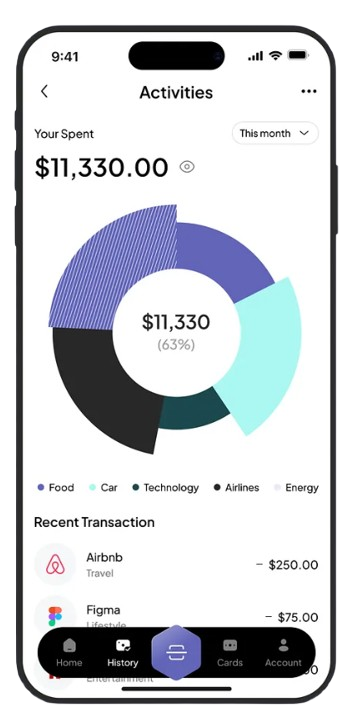
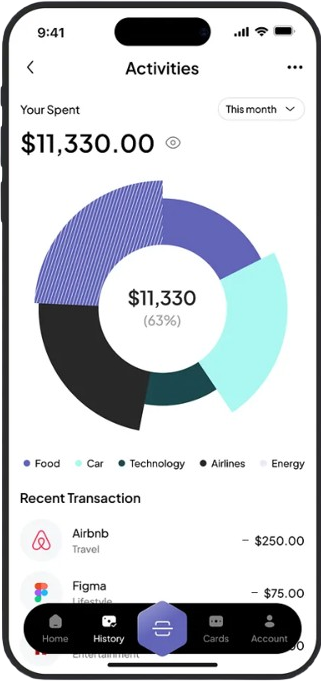
new: the footer section of the landing page

diff --git a/src/components/Footer.js b/src/components/Footer.js
@@ -1,0 +1,93 @@
+import Image from 'next/image';
+
+export default function Footer() {
+  return (
+    <footer className="relative pb-6 pt-12 overflow-hidden">
+      {/* Background Pattern */}
+      {/* <div className="absolute inset-0 opacity-10">
+        <div className="absolute top-0 left-0 w-64 h-64 bg-gray-300 rounded-full -translate-x-32 -translate-y-32"></div>
+        <div className="absolute top-0 right-0 w-96 h-96 bg-gray-300 rounded-full translate-x-48 -translate-y-48"></div>
+        <div className="absolute bottom-0 left-1/2 w-80 h-80 bg-gray-300 rounded-full -translate-x-40 translate-y-40"></div>
+        <div className="absolute bottom-0 right-0 w-72 h-72 bg-gray-300 rounded-full translate-x-36 translate-y-36"></div>
+      </div> */}
+
+      {/* Finzy Logo/Brand */}
+      <div className="text-center">
+        <div className="flex items-center justify-center space-x-2 mb-8 lg:mb-44">
+          <div className="w-8 h-8 bg-black rounded-full flex items-center justify-center">
+            <div className="w-4 h-4 bg-white rounded-full"></div>
+          </div>
+          <span className="text-2xl font-bold text-black">Finzy</span>
+        </div>
+      </div>
+
+      <div className="container-fluid mx-auto px-8 relative z-10">
+        <div className="flex flex-col md:flex-row items-center md:items-end justify-between">
+          {/* Left Side - Navigation Links */}
+          <div className="flex flex-col space-y-6 lg:space-y-8 mb-2 border-b-1 lg:border-b-0 pb-2 lg:pb-0 lg:mb-0">
+            <nav className="flex flex-col items-center md:items-end space-y-4">
+              <a href="#contact" className="text-gray-700 hover:text-black transition-colors text-lg font-medium">
+                Contact Us
+              </a>
+              <a href="#careers" className="text-gray-700 hover:text-black transition-colors text-lg font-medium">
+                Careers
+              </a>
+              <a href="#imprint" className="text-gray-700 hover:text-black transition-colors text-lg font-medium">
+                Imprint
+              </a>
+              <a href="#contact" className="text-gray-700 hover:text-black transition-colors text-lg font-medium">
+                Contact Us
+              </a>
+            </nav>
+          </div>
+
+          {/* Center - Phone Images */}
+          <div className="hidden md:flex items-center justify-center gap-3 absolute -bottom-[280px] left-1/2 -translate-x-1/2  w-[70vw] md:w-[65vw] lg:w-[60vw] xl:w-[50vw]">
+            <div>
+              <Image
+                src="/images/phone 1.png"
+                alt="Finzy App Screen 1"
+                width={300}
+                height={400}
+                className="drop-shadow-2xl"
+              />
+            </div>
+            <div>
+              <Image
+                src="/images/phone 2.png"
+                alt="Finzy App Screen 2"
+                width={300}
+                height={400}
+                className="drop-shadow-2xl relative -top-14"
+              />
+            </div>
+            <div>
+              <Image
+                src="/images/phone 3.png"
+                alt="Finzy App Screen 3"
+                width={300}
+                height={400}
+                className="drop-shadow-2xl"
+              />
+            </div>
+          </div>
+
+          {/* Right Side - Social Links */}
+          <div className="flex flex-col space-y-6 lg:space-y-8">
+            <nav className="flex flex-col space-y-4 text-right">
+              <a href="#instagram" className="text-gray-700 hover:text-black transition-colors text-lg font-medium">
+                Instagram
+              </a>
+              <a href="#linkedin" className="text-gray-700 hover:text-black transition-colors text-lg font-medium">
+                LinkedIn
+              </a>
+              <a href="#facebook" className="text-gray-700 hover:text-black transition-colors text-lg font-medium">
+                Facebook
+              </a>
+            </nav>
+          </div>
+        </div>
+      </div>
+    </footer>
+  );
+}

diff --git a/src/app/page.js b/src/app/page.js
@@ -4,6 +4,7 @@ import Features from '../components/Features';
 import ServicesSection from '../components/ServicesSection';
 import TestimonialsSection from '@/components/TestimonialsSection';
 import AppDownloadSection from '../components/AppDownloadSection';
+import Footer from '../components/Footer';
 
 export default function Home() {
   return (
@@ -14,6 +15,7 @@ export default function Home() {
       <ServicesSection />
       <TestimonialsSection />
       <AppDownloadSection />
+      <Footer />
     </main>
   );
 }

diff --git a/src/components/AppDownloadSection.js b/src/components/AppDownloadSection.js
@@ -2,7 +2,7 @@ import Image from 'next/image';
 
 export default function AppDownloadSection() {
   return (
-    <section className="relative min-h-[500px] mb-10 flex items-center justify-center overflow-hidden">
+    <section className="relative min-h-[500px] flex items-center justify-center overflow-hidden">
       {/* Background Image */}
       <div className="absolute inset-0 z-0">
         <Image
